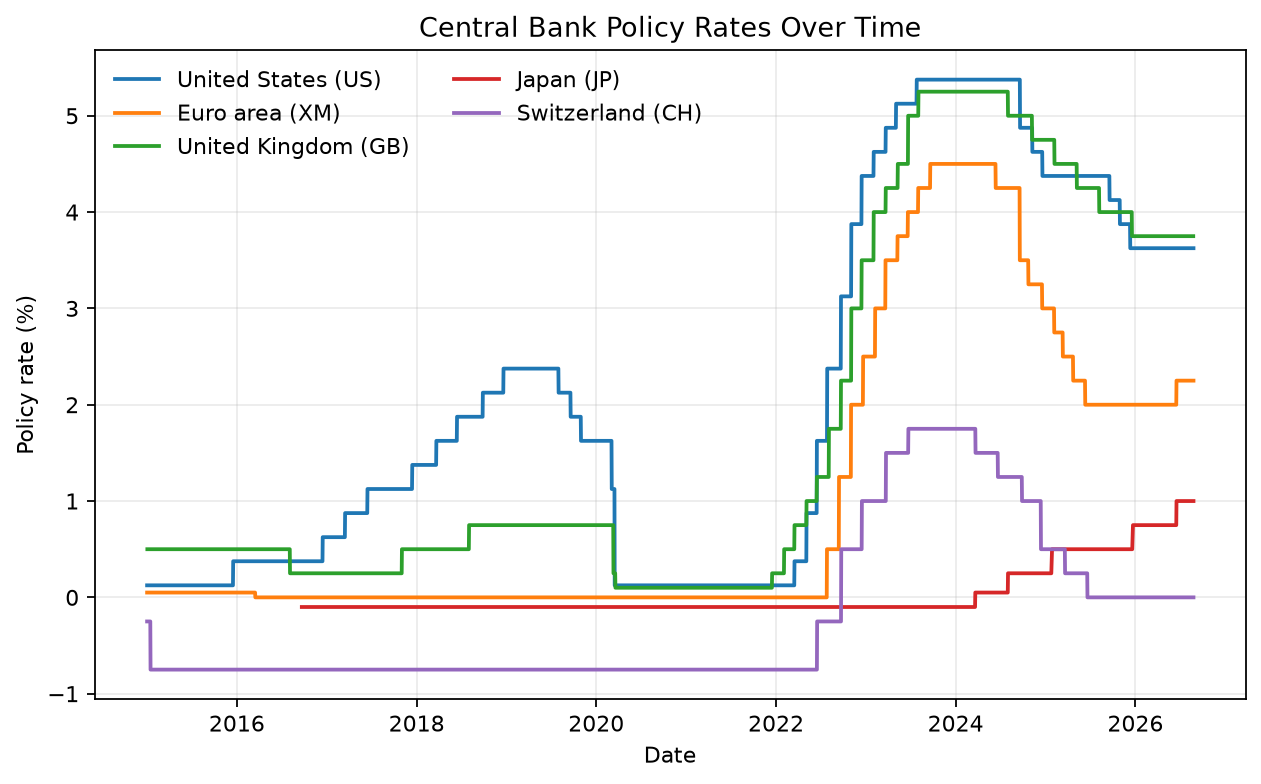
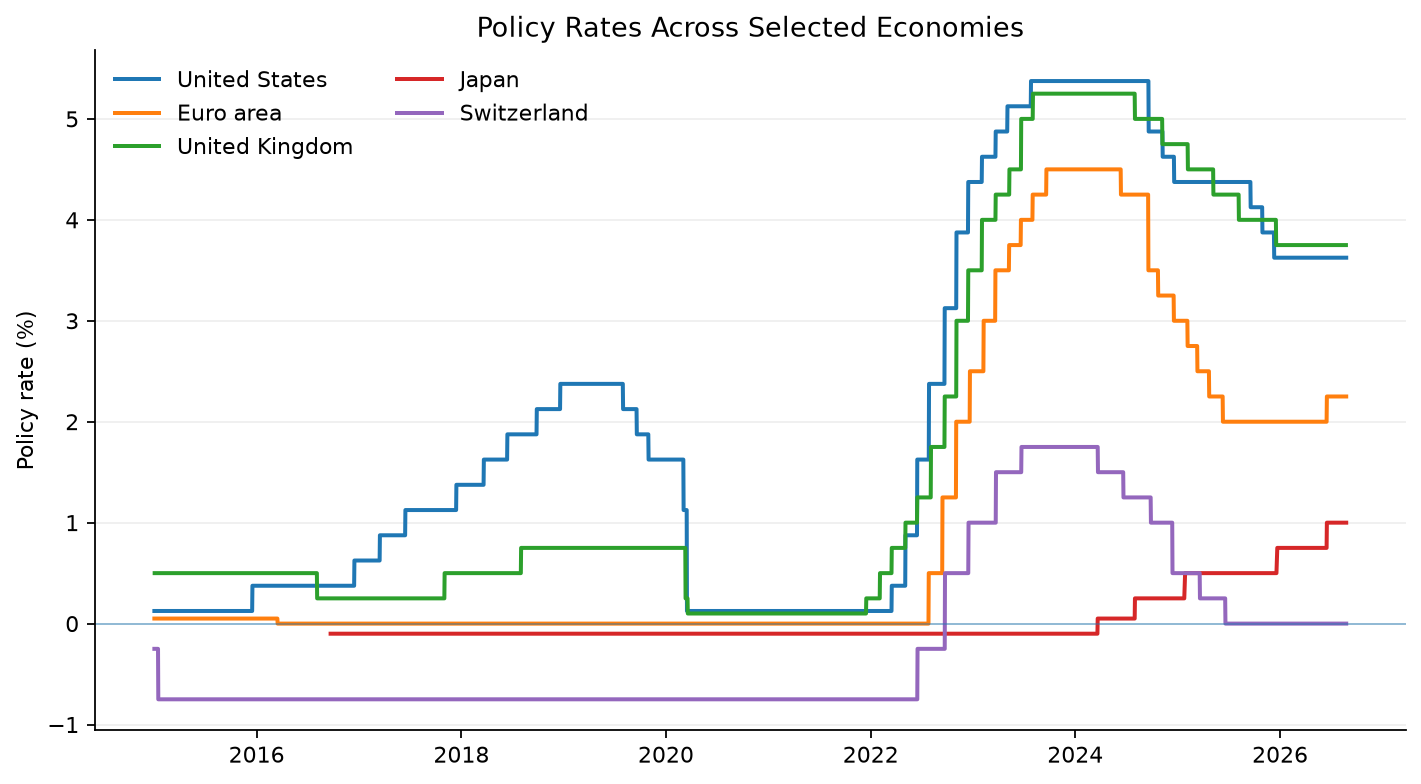
docs: refresh report artifacts with France coverage

diff --git a/out/report.md b/out/report.md
@@ -2,11 +2,11 @@
 
 > Latest central-bank policy rates and recent developments from the Bank for International Settlements.
 
-**Generated:** 2026-08-31 20:32 UTC  
+**Generated:** 2026-09-01 09:26 UTC  
 **Period:** 2015-01-01 → latest available observation  
 **Coverage:** United States, Euro area, United Kingdom, Japan, Switzerland  
-**Requested:** US, EA, GB, JP, CH  
-**BIS codes:** US, XM, GB, JP, CH  
+**Requested:** FR, US, EA, GB, JP, CH  
+**BIS codes:** FR, US, XM, GB, JP, CH  
 
 ---
 
@@ -22,6 +22,20 @@
 
 *Monthly Δ compares the latest observation with the final available observation before the current month. ↑ indicates a hike, ↓ a cut, and — no change.*
 
+> [!WARNING]
+> **Incomplete coverage:** France could not be included in the current policy-rate snapshot.
+>
+> ### France (FR)
+>
+> No policy-rate observations are available for France on or after **2015-01-01**.
+>
+> The most recent available BIS observation is **3.0000%** on **1998-12-31**.
+>
+> **BIS metadata**
+>
+> From 1 Jan 1999 onwards: the series is discontinued as France joined the euro area; from 4 Jan 1982 to 31 Dec 1998: the rate corresponds to the repo rate; from 5 Jul 1973 to 3 Jan 1982: the rate corresponds to the repo rate on call for tenders, firm purchases or repos before purchases on public and private bills of 1st category ("taux des interventions effectuées par la Banque de France sur appels d'offres, achats fermes ou pensions avant achats, effets publics et effets privés à court terme de 1ère catégorie"). Whenever multiple rates were available for a given period, the rate with the shortest maturity has been selected; from 20 Jan 1945 to 4 Jul 1973: the rate was the official discount rate set by the Bank of France.
+>
+
 ---
 
 ## Policy Rate Developments
@@ -36,9 +50,9 @@ Policy-rate developments across the selected economies over the reporting period
 
 ## Methodology
 
-Daily observations are used when available, with monthly observations used as a fallback. Monthly change compares the latest policy rate with the final available observation before the current month.
+Daily observations are used when available, with monthly observations used as a fallback. Countries must have at least one usable observation within the selected reporting period to be included in the snapshot. Monthly change compares the latest policy rate with the final available observation before the current month.
 
-The last change is the most recent non-zero policy-rate move within the selected reporting period. Days since change is measured from that observation to the latest available observation. Missing BIS observations are retained during transformation but excluded from calculations.
+The last change is the most recent non-zero policy-rate move in the available BIS series. Days since change is measured from that observation to the latest available observation. Missing BIS observations are retained during transformation but excluded from calculations.
 
 ## Data Source
 
